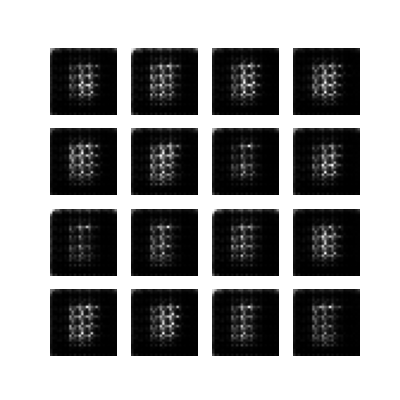
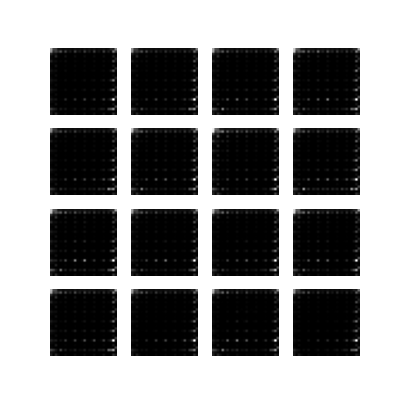
move make models

diff --git a/testingTrain.py b/testingTrain.py
@@ -51,14 +51,6 @@ def make_generator_model():
     return model
 
 
-generator = make_generator_model()
-
-noise = tf.random.normal([1, 100])
-generated_image = generator(noise, training=False)
-
-plt.imshow(generated_image[0, :, :, 0], cmap='gray')
-
-
 def make_discriminator_model():
     model = tf.keras.Sequential()
     model.add(layers.Conv2D(64, (5, 5), strides=(2, 2), padding='same',
@@ -75,11 +67,6 @@ def make_discriminator_model():
 
     return model
 
-
-discriminator = make_discriminator_model()
-decision = discriminator(generated_image)
-print(decision)
-
 # This method returns a helper function to compute cross entropy loss
 cross_entropy = tf.keras.losses.BinaryCrossentropy(from_logits=True)
 
@@ -95,15 +82,19 @@ def generator_loss(fake_output):
 generator_optimizer = tf.keras.optimizers.Adam(1e-4)
 discriminator_optimizer = tf.keras.optimizers.Adam(1e-4)
 
+discriminator = make_discriminator_model()
+generator = make_generator_model()
+
 checkpoint_dir = './training_checkpoints'
 checkpoint_prefix = os.path.join(checkpoint_dir, "ckpt")
 checkpoint = tf.train.Checkpoint(generator_optimizer=generator_optimizer,
                                  discriminator_optimizer=discriminator_optimizer,
                                  generator=generator,
-                                 discriminator=discriminator)
+                                 discriminator=discriminator,
+                                 gan_model = )
 
 
-EPOCHS = 10
+EPOCHS = 1
 noise_dim = 100
 num_examples_to_generate = 16
 
